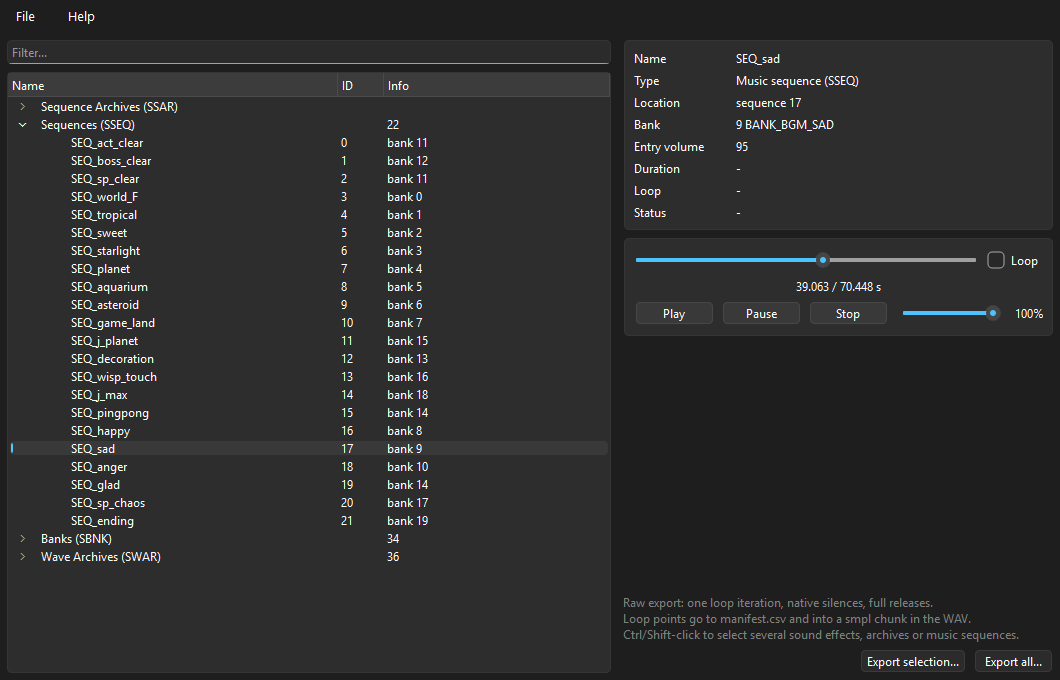
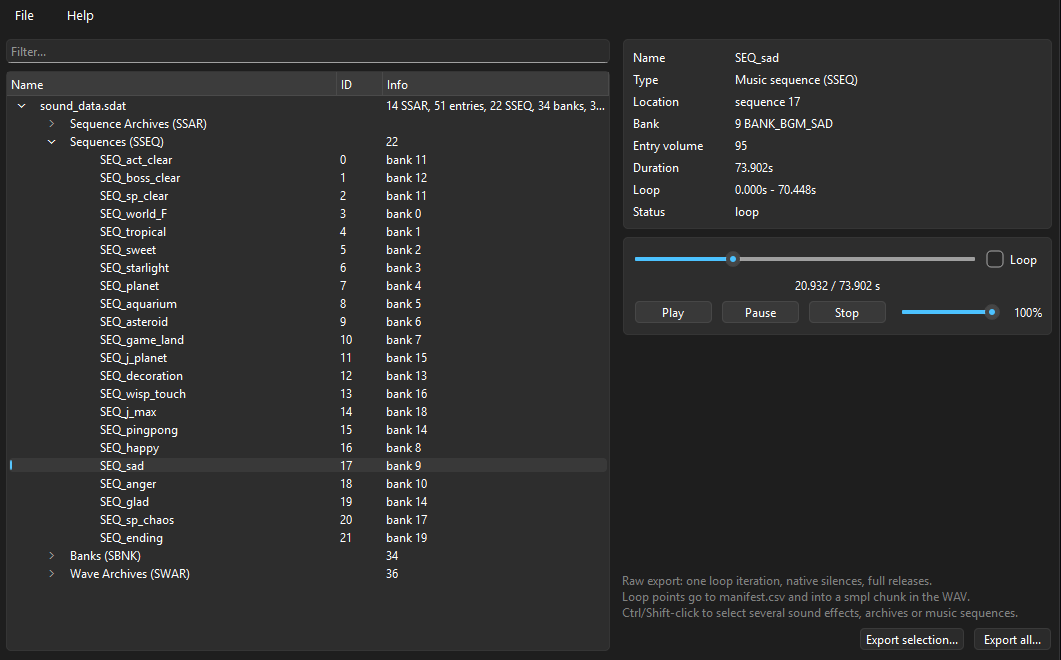
Updated README

diff --git a/README.md b/README.md
@@ -9,6 +9,14 @@ Rips Nintendo DS sound effects (SSAR) & music (SSEQ) inside `sound_data.sdat` to
 
 ## Screenshots
 
+Open a `.nds` ROM: pick one or more SDATs from the selection dialog (Ctrl/Shift-click for multiple):
+
+![Multi-SDAT import](docs/multi-sdat-import.png)
+
+Browse multiple SDATs side-by-side, grouped by archive:
+
+![Per-SDAT layout](docs/per-sdat-preview.png)
+
 Browse the SDAT, preview sound effects with the built-in player (seek, pause, loop on the sound's own loop points):
 
 ![Archive preview](docs/archive-preview.png)